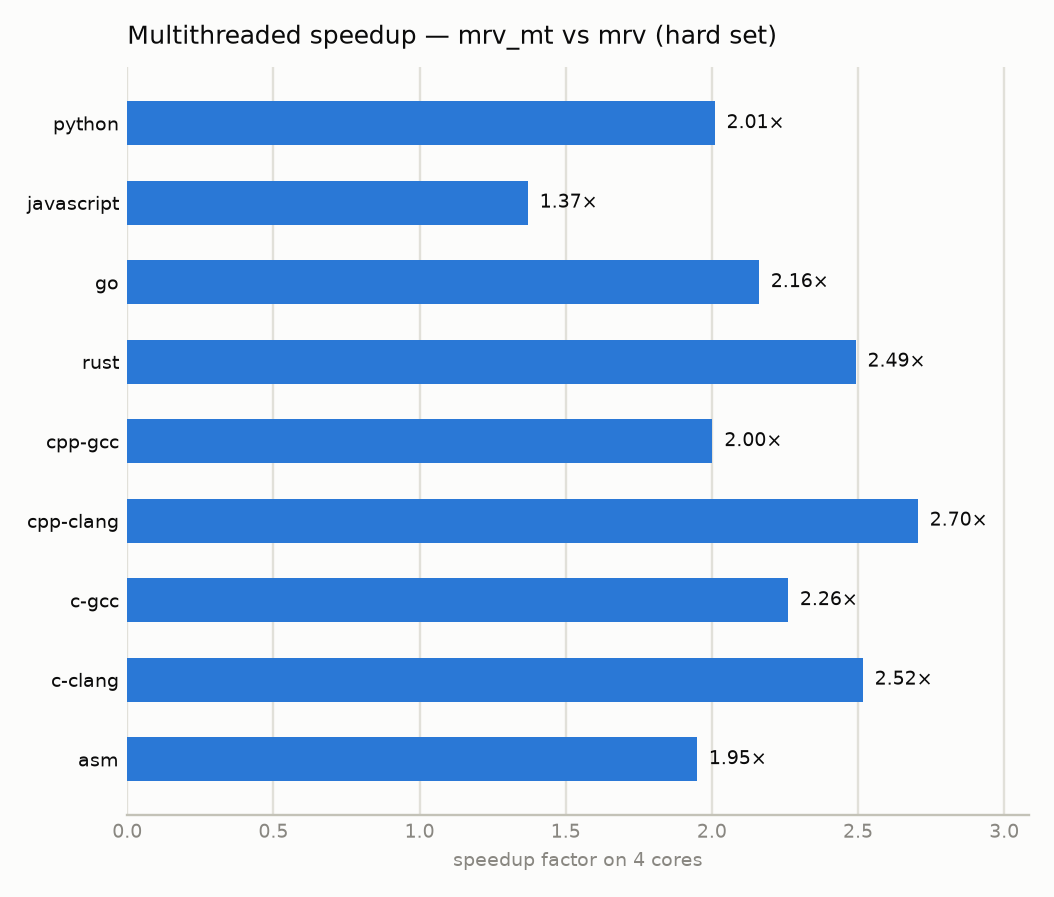
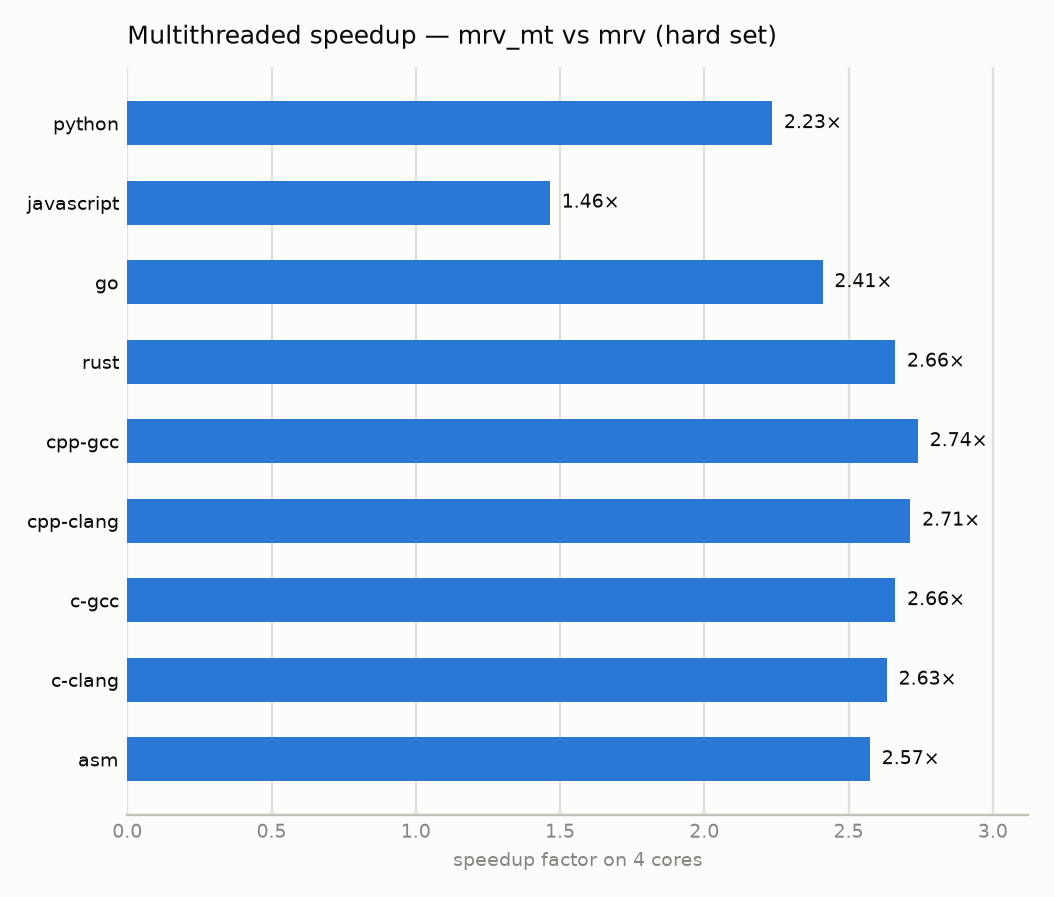
Regenerate report from GitHub runner results

diff --git a/README.md b/README.md
@@ -63,10 +63,12 @@ Measured on AMD EPYC 7763 64-Core Processor (4 cores), 2026-08-09 21:21:35. Each
 | `go` | 2,932.51 | 7.48 | 50.52 | 15.15 | 47.20 | 4.02 |
 | `rust` | 1,583.05 | 6.95 | 36.81 | 11.79 | 26.18 | 2.56 |
 | `cpp-gcc` | 1,179.81 | 5.04 | 38.38 | 11.18 | 26.73 | 1.76 |
-| `cpp-clang` | 1,380.70 | 4.80 | 29.35 | 11.19 | 20.28 | 1.76 |
+| `cpp-clang` | 1,380.70 | 4.80 | **29.35** | 11.19 | 20.28 | 1.76 |
 | `c-gcc` | 1,163.17 | 5.32 | 37.45 | 11.24 | 25.73 | 1.94 |
-| `c-clang` | 1,359.94 | 4.95 | 36.17 | 10.51 | 20.12 | 1.79 |
-| `asm` | 642.78 | 4.38 | 48.04 | 10.87 | 21.71 | 1.63 |
+| `c-clang` | 1,359.94 | 4.95 | 36.17 | **10.51** | **20.12** | 1.79 |
+| `asm` | **642.78** | **4.38** | 48.04 | 10.87 | 21.71 | **1.63** |
+
+`rules` solved all 50 puzzles of this set by logic alone.
 
 </details>
 
@@ -79,10 +81,12 @@ Measured on AMD EPYC 7763 64-Core Processor (4 cores), 2026-08-09 21:21:35. Each
 | `go` | 2,931.76 | 7.48 | 50.72 | 14.82 | 47.05 | 4.01 |
 | `rust` | 1,583.89 | 6.89 | 36.83 | 11.78 | 26.19 | 2.55 |
 | `cpp-gcc` | 1,179.98 | 5.02 | 38.40 | 11.16 | 26.74 | 1.76 |
-| `cpp-clang` | 1,380.44 | 4.81 | 29.41 | 11.02 | 20.26 | 1.77 |
+| `cpp-clang` | 1,380.44 | 4.81 | **29.41** | 11.02 | 20.26 | 1.77 |
 | `c-gcc` | 1,163.35 | 5.32 | 37.49 | 11.04 | 25.73 | 1.94 |
-| `c-clang` | 1,359.72 | 4.99 | 36.20 | 10.61 | 20.15 | 1.79 |
-| `asm` | 643.07 | 4.39 | 48.04 | 10.88 | 21.71 | 1.63 |
+| `c-clang` | 1,359.72 | 4.99 | 36.20 | **10.61** | **20.15** | 1.79 |
+| `asm` | **643.07** | **4.39** | 48.04 | 10.88 | 21.71 | **1.63** |
+
+`rules` solved all 50 puzzles of this set by logic alone.
 
 </details>
 
@@ -95,10 +99,12 @@ Measured on AMD EPYC 7763 64-Core Processor (4 cores), 2026-08-09 21:21:35. Each
 | `go` | 504,209.88 | 303.21 | 159.62 | 106.83 | 102.16 | 125.83 |
 | `rust` | 260,176.02 | 277.38 | 127.99 | 95.87 | 42.00 | 104.23 |
 | `cpp-gcc` | 188,730.47 | 217.32 | 132.08 | 90.74 | 52.64 | 79.31 |
-| `cpp-clang` | 223,259.50 | 195.85 | 108.32 | 91.71 | 38.59 | 72.17 |
+| `cpp-clang` | 223,259.50 | 195.85 | **108.32** | 91.71 | 38.59 | 72.17 |
 | `c-gcc` | 186,472.38 | 220.12 | 129.81 | 92.12 | 51.49 | 82.70 |
-| `c-clang` | 216,662.77 | 193.44 | 127.41 | 85.63 | 37.97 | 73.49 |
-| `asm` | 104,868.56 | 176.75 | 161.35 | 86.82 | 37.83 | 68.67 |
+| `c-clang` | 216,662.77 | 193.44 | 127.41 | **85.63** | 37.97 | 73.49 |
+| `asm` | **104,868.56** | **176.75** | 161.35 | 86.82 | **37.83** | **68.67** |
+
+`rules` solved 24 of 95 puzzles here and gave up on the rest, so its column covers less work than the others — it is not faster, it is doing less.
 
 <details><summary>extreme set (µs per puzzle)</summary>
 
@@ -109,10 +115,12 @@ Measured on AMD EPYC 7763 64-Core Processor (4 cores), 2026-08-09 21:21:35. Each
 | `go` | 711,021.14 | 25.29 | 63.50 | 29.48 | 78.15 | 19.95 |
 | `rust` | 356,998.30 | 23.10 | 45.10 | 25.18 | 32.34 | 8.78 |
 | `cpp-gcc` | 254,597.20 | 16.09 | 47.00 | 23.36 | 37.33 | 6.00 |
-| `cpp-clang` | 305,133.44 | 15.95 | 36.26 | 23.96 | 24.58 | 5.92 |
+| `cpp-clang` | 305,133.44 | 15.95 | **36.26** | 23.96 | 24.58 | 5.92 |
 | `c-gcc` | 251,189.19 | 17.74 | 45.76 | 23.97 | 35.52 | 6.78 |
-| `c-clang` | 299,882.00 | 15.41 | 44.29 | 22.29 | 24.58 | 6.03 |
-| `asm` | 137,915.46 | 14.31 | 60.30 | 23.22 | 28.51 | 5.51 |
+| `c-clang` | 299,882.00 | 15.41 | 44.29 | **22.29** | **24.58** | 6.03 |
+| `asm` | **137,915.46** | **14.31** | 60.30 | 23.22 | 28.51 | **5.51** |
+
+`rules` solved 5 of 12 puzzles here and gave up on the rest, so its column covers less work than the others — it is not faster, it is doing less.
 
 </details>
 
@@ -131,5 +139,21 @@ The `rules` solver never guesses. Whatever it leaves `UNSOLVED` genuinely needs 
   <source media="(prefers-color-scheme: dark)" srcset="assets/mt_speedup_dark.png">
   <img alt="Multithreaded speedup by language" src="assets/mt_speedup_light.png">
 </picture>
+
+### How the algorithms scale with difficulty
+
+Time per puzzle in `cpp-gcc`, and how much of it the hard set costs:
+
+| algorithm | easy | hard | factor |
+|---|---|---|---|
+| `naive` | 1,179.8 | 188,730.5 | 160.0× |
+| `mrv_mt` | 1.8 | 79.3 | 45.1× |
+| `mrv` | 5.0 | 217.3 | 43.2× |
+| `dlx` | 11.2 | 90.7 | 8.1× |
+| `norvig` | 38.4 | 132.1 | 3.4× |
+
+The ranking is not a property of the algorithms — it is a function of how hard the input is. Constraint propagation carries a high fixed cost per assignment and spends it whether or not there is a search tree to prune, which makes it the slowest choice on easy puzzles and a good one where the search actually explodes. Plain MRV is the opposite: almost free per cell, but it pays the full price of every branch it has to take.
+
+Note also that `extreme` here is not the hardest set for a machine. Those puzzles are hard for *humans*; their search trees are shallow, so the solvers that win on `hard` do not win on `extreme`.
 
 <!-- BENCH:END -->
